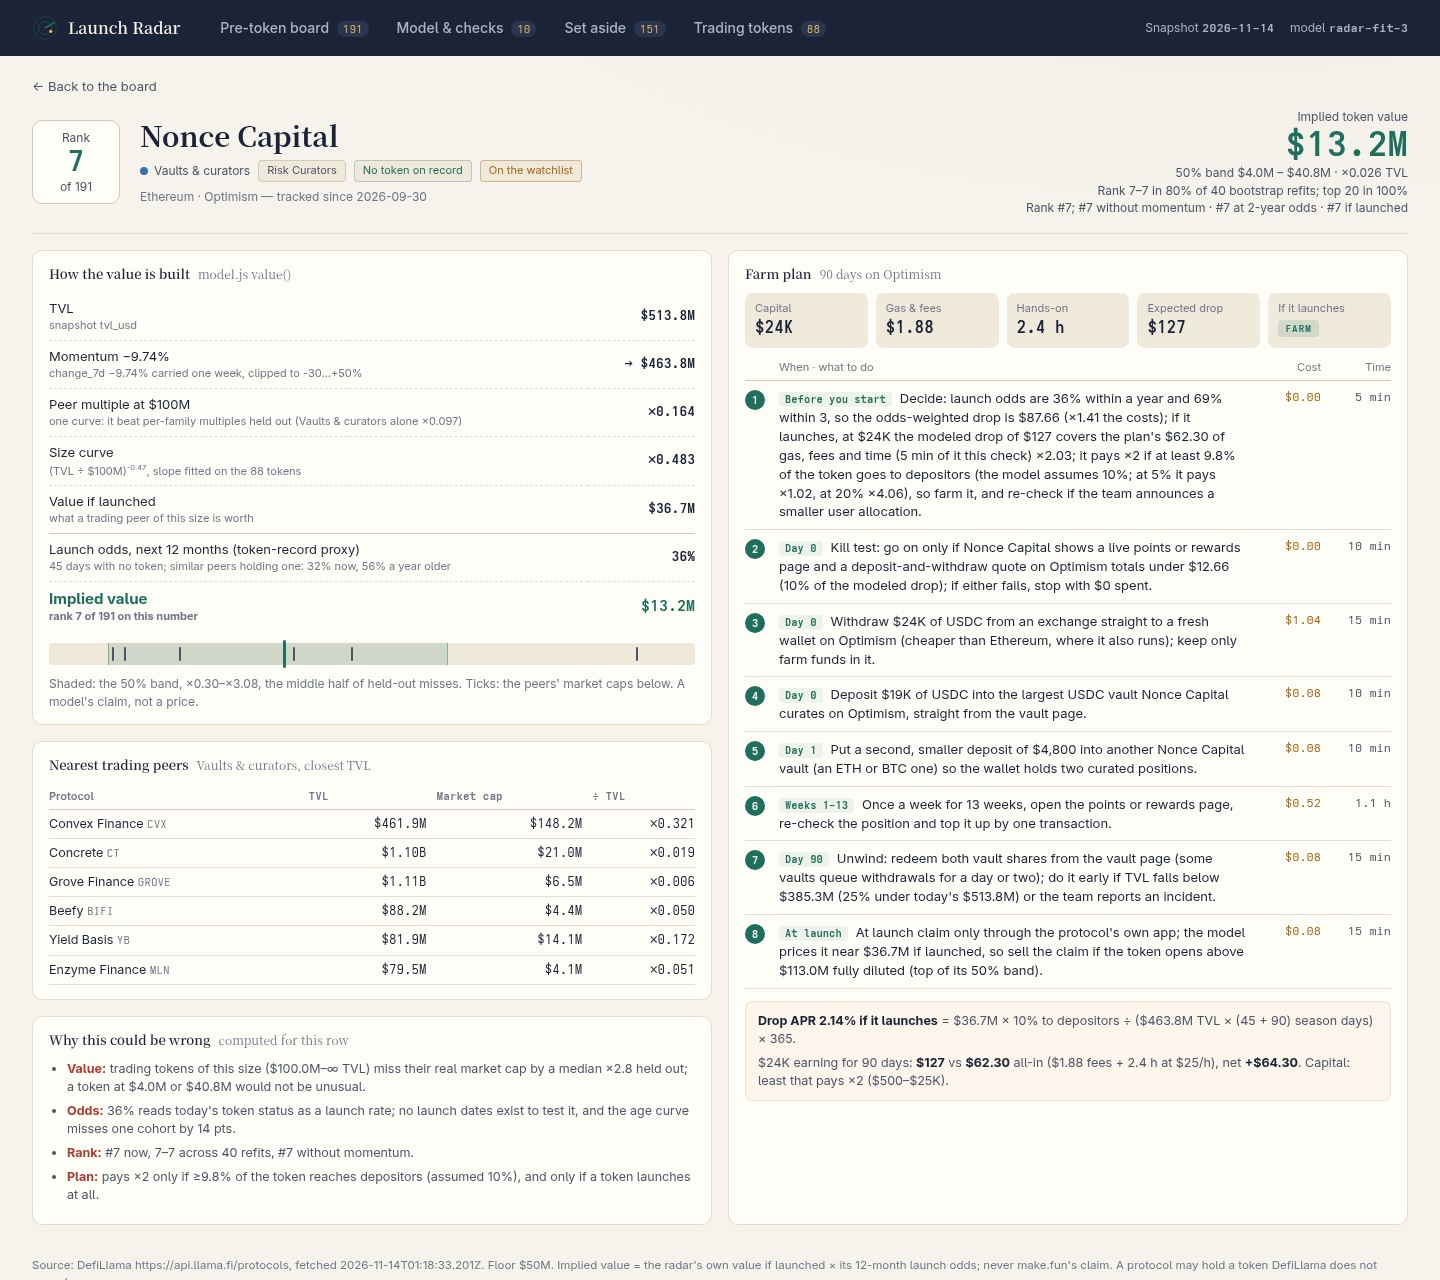
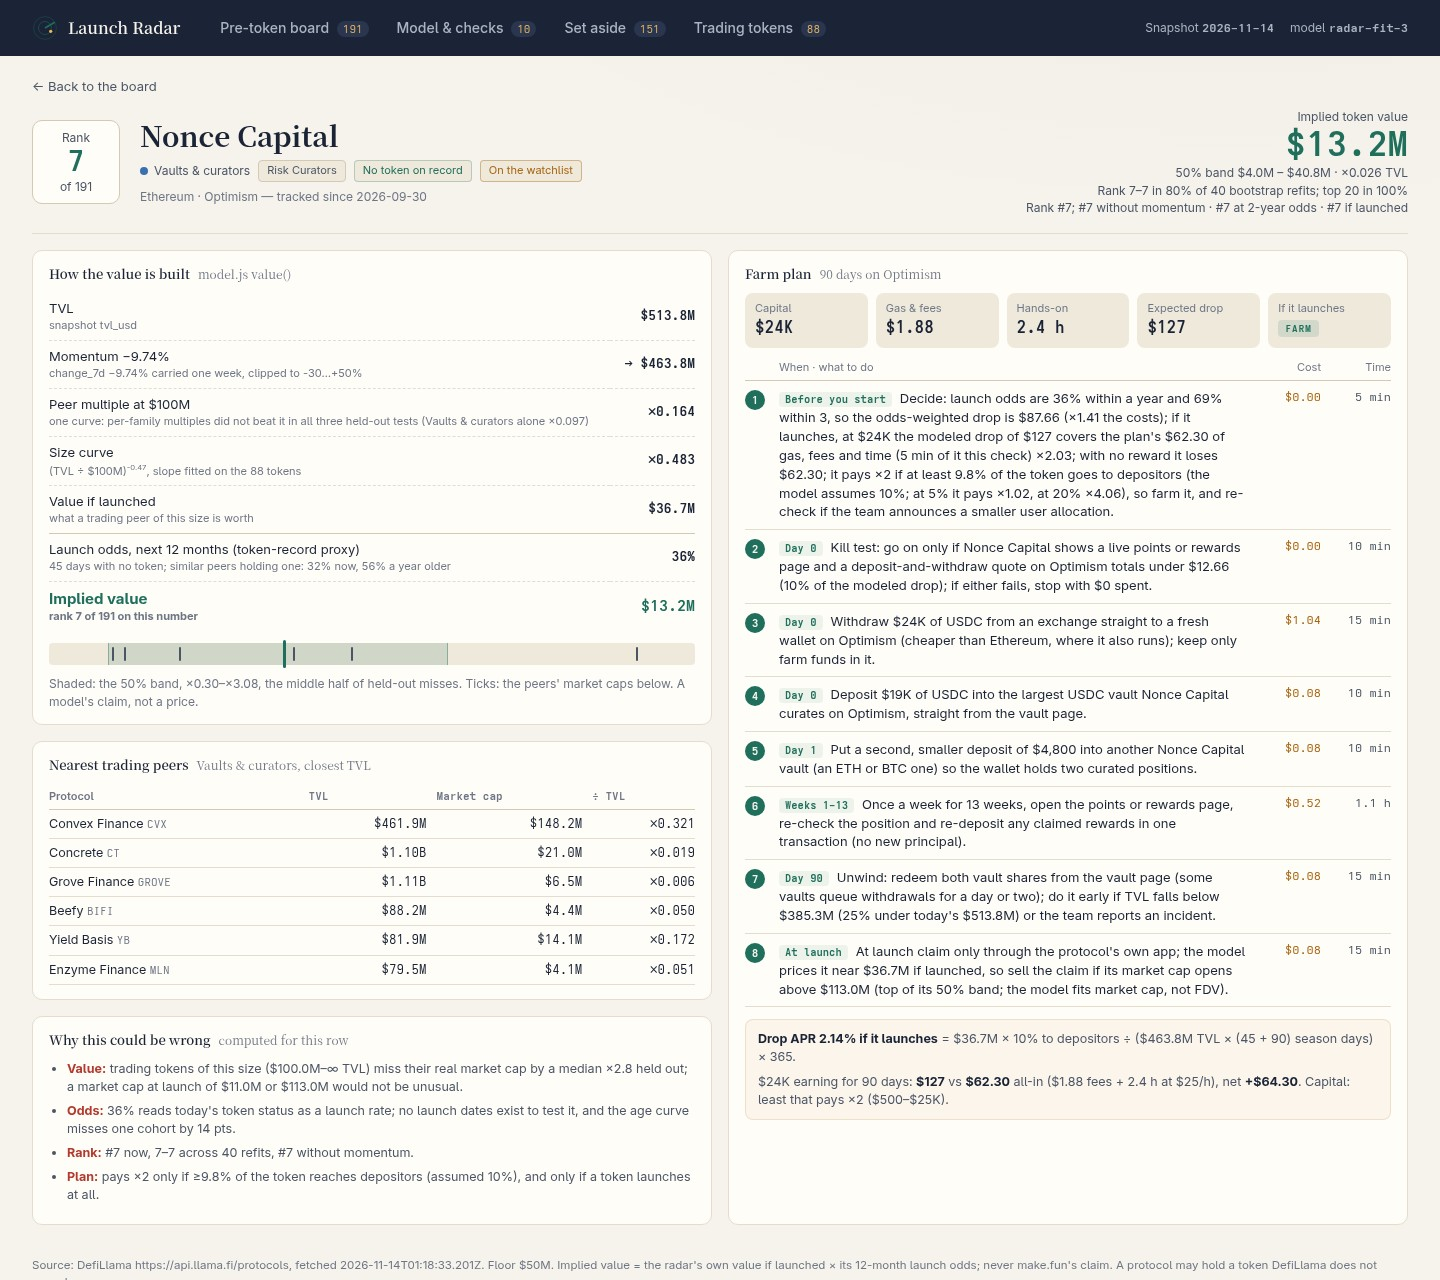
Corrections from the diagnosis round: conditional cap band in the red-team line, market cap not FDV in the sell rule, momentum removed from both legs of the 'without momentum' variant, clipping on the fitted ratio, one token-evidence rule, zero-reward loss in every plan, honest labels (Tracked, Auto

diff --git a/dashboard/app.js b/dashboard/app.js
@@ -3,7 +3,7 @@
  *   model.js launchOdds()  12-month launch odds: a hazard fitted on peers by TVL and age, AUC and cohort checks
  *   model.js value()       value if launched x launch odds, every factor kept for the detail view
  *   model.js productOf()   the watchlist rule that sets wrapped, bridged, staked and exchange products aside
- *   model.js farmPlan()    decision step, six costed and timed steps, deposit sized or set by the reader
+ *   model.js farmPlan()    decision step, seven costed and timed steps, deposit sized or set by the reader
  *   model.js build(), boardRows(), digest()  what main.ts writes to board.json; the page recomputes it
  *   app.js CHECKS, board(), detail(), aside(), trading()  cover checks and views; state in the URL hash
  * Reviewer's audit route: (1) screen = board.json: digest() covers rank, name, value and every plan step;
@@ -138,7 +138,7 @@
     [rows.every((r, i) => r.rank === i + 1 && (!i || r.v.implied <= rows[i - 1].v.implied)), `Ranks 1–${rows.length}, value never rising`],
     [rows.every((r) => r.p.gecko_id == null && r.p.symbol == null && r.p.mcap_usd == null), `${rows.length}/${rows.length} ranked rows record no token`],
     [bRows.every((b) => b.farm_steps.length >= 3 && b.farm_steps.length <= 12 && b.farm_steps.every((t) => / Cost: .+ Time: /.test(t))), `${bRows.length}/${bRows.length} plans, every step costed and timed`],
-    [B.digest === dig && B.rows === rows.length, `Screen = board.json (rank, name, value, every plan step): digest ${dig}, ${B.rows || 0} rows`],
+    [B.digest === dig && B.rows === rows.length, `Screen = board.json at the Auto deposit (rank, name, value, every plan step): digest ${dig}, ${B.rows || 0} rows`],
     [O.auc_loo > 0.5 && O.auc_wf > 0.5 && O.auc_fam > 0.5 && O.brier.loo < O.brier.loo_base && O.brier.wf < O.brier.wf_base && O.brier.fam < O.brier.fam_base, `Launch odds (token-record proxy) beat chance and the base rate in 3 held-out tests: AUC ${O.auc_loo.toFixed(2)} leave-one-out, ${O.auc_wf.toFixed(2)} walk-forward, ${O.auc_fam.toFixed(2)} family-out; Brier ${O.brier.loo.toFixed(3)}/${O.brier.wf.toFixed(3)}/${O.brier.fam.toFixed(3)} vs base ${O.brier.loo_base.toFixed(3)}/${O.brier.wf_base.toFixed(3)}/${O.brier.fam_base.toFixed(3)}`],
     [rows.slice(0, 10).every((r) => r.boot >= 0.8), `Bootstrap, 40 refits of curve and odds (fails if any top-10 row leaves the top 20 in over 20% of refits): ranks 1–${rows.findIndex((r) => r.boot < 1)} stay top 20 every time; ${rows.filter((r) => r.boot > 0 && r.boot < 1).length} rows sometimes`],
     ((w) => [O.gap < 0.2, `Odds curve vs ${O.cohorts.length} listing-age cohorts: within ${Math.round(O.gap * 100)} pts (worst from day ${w.from}: ${pc(w.actual)} hold a token, ${pc(w.fitted)} fitted)`])(O.cohorts.reduce((a, c) => Math.abs(c.actual - c.fitted) > Math.abs(a.actual - a.fitted) ? c : a)),
@@ -195,7 +195,7 @@
       <div class="count"><b>${shown.length}</b> of ${rows.length} shown${active ? ` · <a href="${link({ q: '', fam: '', chain: '', scope: 'all', verdict: '', dep: '' })}">clear filters</a>` : ''}</div>
     </section>
     <section class="filters basket"><label class="field"><span>Budget</span><select id="bud">${[10000, 25000, 50000, 100000].map((d) => `<option value="${d}"${String(d) === st.bud ? ' selected' : ''}>${usd(d)}</option>`).join('')}</select></label>
-      <span>Basket, best net per dollar of the ${shown.length} shown, within ${usd(+st.bud)} and ${HOURS} h: ${pick.map((r) => `<a href="${link({ p: r.p.slug })}">${esc(r.p.name)}</a> ${usd(r.plan.stake)}`).join(' · ') || 'none pays'} → <b>${usd(cap)}</b>, ${hrs.toFixed(1)} h, net <b class="up">+${usd(pick.reduce((s, r) => s + r.plan.net, 0))}</b></span></section>
+      <span>Basket, best net per dollar of the ${shown.length} shown, within ${usd(+st.bud)} and ${HOURS} h: ${pick.map((r) => `<a href="${link({ p: r.p.slug })}">${esc(r.p.name)}</a> ${usd(r.plan.stake)}`).join(' · ') || 'none pays'} → <b>${usd(cap)}</b>, ${hrs.toFixed(1)} h, net if they launch <b class="up">+${usd(pick.reduce((s, r) => s + r.plan.net, 0))}</b></span></section>
     <section class="filters"><div class="chips" role="group" aria-label="Family">${famLinks}</div></section></div>`;
     return `<section class="strip">
       <div><b>${watchCov}/${S.watchlist.length}</b><span>watchlist covered</span></div>
@@ -217,7 +217,7 @@
     </section>
     ${active ? '' : ctl}
     <div class="tablewrap"><table class="board">
-      <thead><tr>${th('rank', 'Rank')}${th('name', 'Protocol')}<th>Family</th>${th('tvl', 'TVL', 'num')}${th('g', '7d', 'num')}${th('age', 'No token', 'num')}${th('value', 'Implied value · 50% band', 'val')}${th('odds', 'Odds 12m', 'num')}${th('apr', 'Drop APR', 'num')}${th('plan', 'Farm plan · if it launches', 'plan')}</tr></thead>
+      <thead><tr>${th('rank', 'Rank')}${th('name', 'Protocol')}<th>Family</th>${th('tvl', 'TVL', 'num')}${th('g', '7d', 'num')}${th('age', 'Tracked', 'num')}${th('value', 'Implied value · 50% band', 'val')}${th('odds', 'Odds 12m', 'num')}${th('apr', 'Drop APR', 'num')}${th('plan', 'Farm plan · if it launches', 'plan')}</tr></thead>
       <tbody>${body || '<tr><td colspan="10" class="empty">No protocol matches these filters.</td></tr>'}</tbody></table></div>`;
   }
 
@@ -225,7 +225,7 @@
   function redTeam(r) {
     const v = r.v, b = fit.bands.find((x) => r.p.tvl_usd >= x.lo && r.p.tvl_usd < x.hi), alt = Object.entries(r.alt).sort((a, c) => Math.abs(c[1] - r.rank) - Math.abs(a[1] - r.rank))[0];
     return [
-      `<b>Value:</b> trading tokens of this size (${b.lo ? usd(b.lo) : '$0'}–${b.hi < 1e15 ? usd(b.hi) : '∞'} TVL) miss their real market cap by a median ×${b.miss.toFixed(1)} held out; a token at ${usd(v.low)} or ${usd(v.high)} would not be unusual.`,
+      `<b>Value:</b> trading tokens of this size (${b.lo ? usd(b.lo) : '$0'}–${b.hi < 1e15 ? usd(b.hi) : '∞'} TVL) miss their real market cap by a median ×${b.miss.toFixed(1)} held out; a market cap at launch of ${usd(v.fitted * fit.band_low)} or ${usd(v.cap_high)} would not be unusual.`,
       `<b>Odds:</b> ${pc(v.time_factor)} reads today's token status as a launch rate; no launch dates exist to test it, and the age curve misses one cohort by ${Math.round(fit.odds.gap * 100)} pts.`,
       `<b>Rank:</b> #${r.rank} now, ${r.rlo}–${r.rhi} across 40 refits, #${alt[1]} ${alt[0]}${v.growth_imputed ? '; its 7-day change is unreported, so 0% was used' : ''}.`,
       `<b>Plan:</b> pays ×${M.target_cover} only if ≥${(r.plan.need_share * 100).toFixed(1)}% of the token reaches depositors (assumed ${M.drop_share * 100}%), and only if a token launches at all.`
@@ -254,7 +254,7 @@
           <table class="receipt">
             ${line('TVL', 'snapshot tvl_usd', usd(p.tvl_usd))}
             ${line('Momentum ' + pct(v.growth, 2), (v.growth_imputed ? 'change_7d not reported: 0% assumed' : 'change_7d ' + pct(p.change_7d, 2) + ' carried one week, clipped to ' + M.growth_floor + '…+' + M.growth_cap + '%'), '→ ' + usd(v.tvl_next))}
-            ${line('Peer multiple at $100M', (fit.k === Infinity ? 'one curve: it beat per-family multiples held out' : 'family pull k=' + fit.k) + ' (' + esc(fam.label) + ' alone ' + mult(fam.raw) + ')', mult(v.fam_multiple))}
+            ${line('Peer multiple at $100M', (fit.k === Infinity ? 'one curve: per-family multiples did not beat it in all three held-out tests' : 'family pull k=' + fit.k) + ' (' + esc(fam.label) + ' alone ' + mult(fam.raw) + ')', mult(v.fam_multiple))}
             ${line('Size curve', '(TVL ÷ $100M)<sup>' + fit.slope.toFixed(2) + '</sup>, slope fitted on the ' + fit.n + ' tokens', mult(v.size_mult))}
             ${line('Value if launched', 'what a trading peer of this size is worth', usd(v.fitted), 'sum')}
             ${line('Launch odds, next 12 months (token-record proxy)', (v.age == null ? 'no listing date: median ' + v.age_used + ' days' : v.age + ' days') + ' with no token; similar peers holding one: ' + pc(v.f0) + ' now, ' + pc(v.f1) + ' a year older', pc(v.time_factor))}
@@ -283,7 +283,7 @@
         <ol class="steps">${pl.steps.map((s) => `<li><p><em>${esc(s.when)}</em>${esc(s.act)}.</p><span class="cost">${usd(s.usd)}</span><span class="time">${R.mins(s.min)}</span></li>`).join('')}</ol>
         <div class="math">
           <p><b>Drop APR ${(v.apr * 100).toFixed(2)}% if it launches</b> = ${usd(v.fitted)} × ${M.drop_share * 100}% to depositors ÷ (${usd(v.tvl_next)} TVL × (${Math.min(v.age_used, M.season_days)} + ${M.farm_days}) season days) × 365.</p>
-          <p>${usd(pl.eligible)} earning for ${pl.days} days: <b>${usd(pl.drop)}</b> vs <b>${usd(pl.all_in)}</b> all-in (${usd(pl.cost)} fees + ${R.mins(pl.minutes)} at $${M.hour_usd}/h), net <b class="${pl.net >= 0 ? 'up' : 'down'}">${pl.net >= 0 ? '+' : '−'}${usd(Math.abs(pl.net))}</b>. Capital: ${st.dep ? 'your deposit' : `least that pays ×${M.target_cover} ($500–$25K)`}.</p>
+          <p>${usd(pl.eligible)} earning for ${pl.days} days: <b>${usd(pl.drop)}</b> vs <b>${usd(pl.all_in)}</b> all-in (${usd(pl.cost)} fees + ${R.mins(pl.minutes)} at $${M.hour_usd}/h), net <b class="${pl.net >= 0 ? 'up' : 'down'}">${pl.net >= 0 ? '+' : '−'}${usd(Math.abs(pl.net))}</b>. Capital: ${st.dep ? 'your deposit' : pl.verdict === 'farm' ? `least that pays ×${M.target_cover} ($500–$25K)` : `capped at $25K; no deposit up to it pays ×${M.target_cover}`}.</p>
         </div>
       </section>
     </div>`;
@@ -297,7 +297,7 @@
   }
   function aside() {
     return `<section class="intro"><h1>${radar.products.length} products set aside, not ranked</h1>
-      <p>No token of their own, but each is a wrapped, bridged, staked or exchange product, a versioned pool or a likely sibling of a trading token: the watchlist rule (productOf) applied to every protocol. Their value is the underlying token's.</p></section>
+      <p>No token of their own, but each is a wrapped, bridged, staked or exchange product, a versioned pool or a likely sibling of a trading token: the watchlist rule (productOf) applied to every protocol. Their value most likely rides on the related token's, so the board gives them none of their own.</p></section>
       <div class="tablewrap">${tbl('board', ['Product', 'Why set aside', '#TVL', '#7d'], radar.products.map((x) => [nm(x.p.name, x.p.chains.slice(0, 3).join(', ')), `<span class="tag">${esc(x.kind)}</span>`, usd(x.p.tvl_usd), pct(x.p.change_7d)]))}</div>`;
   }
 

diff --git a/dashboard/model.js b/dashboard/model.js
@@ -99,7 +99,7 @@
     });
     return { bands: bands, k: k, slope: full.b, elasticity: 1 + full.b, base: Math.exp(full.all), families: full.fams, n: pts.length, points: pts,
       median_error: Math.exp(quantile(absMiss, 0.5)), band_low: Math.exp(q25), band_high: Math.exp(q75), band_hits: inBand,
-      clipped: pts.filter(function (q) { var r = q.mcap / q.tvl; return r < M.ratio_floor || r > M.ratio_cap; }).length,
+      clipped: pts.filter(function (q) { var r = q.mcap / q.tc; return r < M.ratio_floor || r > M.ratio_cap; }).length,
       tests: tests, odds: launchOdds(snap) };
   }
 
@@ -114,7 +114,7 @@
       return [1, Math.log(p.tvl_usd / M.ref_tvl), Math.log(1 + a / 365), Math.log(1 + clamp(p.change_7d || 0, M.growth_floor, M.growth_cap) / 100)]
         .concat(fams.map(function (f) { return family(p) === f[0] ? 1 : 0; }));
     };
-    var pts = peers.map(function (p) { var a = ageDays(snap.as_of, p.listed_at); return { p: p, a: a, x: X(p, a == null ? mid : a), y: p.gecko_id != null || p.symbol != null ? 1 : 0 }; });
+    var pts = peers.map(function (p) { var a = ageDays(snap.as_of, p.listed_at); return { p: p, a: a, x: X(p, a == null ? mid : a), y: hasToken(p) ? 1 : 0 }; });
     // Newton steps from w0 (zeros, or the full fit's weights for a leave-one-out refit).
     function logit(T, w0, steps) {
       var n = T[0].x.length, w = [], it, i, j, k, t, g, H;
@@ -295,9 +295,9 @@
           usd: 1 + tx, min: 15, when: 'Day 0' },
         { act: fill(act[0]), usd: 2 * tx, min: v.family === 'rwa' ? 30 : 10, when: v.family === 'rwa' ? 'Days 0-2' : 'Day 0' },
         { act: fill(act[1]), usd: WEEKLY[kind] ? weeks * (side * WEEKLY[kind][0] + WEEKLY[kind][1] * tx) : 2 * tx, min: kind in WEEKLY ? weeks * 10 : 10, when: kind in WEEKLY ? 'Weeks 1-' + weeks : 'Day 1' },
-        { act: 'Once a week for ' + weeks + ' weeks, open the points or rewards page, re-check the position and top it up by one transaction', usd: weeks * tx, min: weeks * 5, when: 'Weeks 1-' + weeks },
+        { act: 'Once a week for ' + weeks + ' weeks, open the points or rewards page, re-check the position and re-deposit any claimed rewards in one transaction (no new principal)', usd: weeks * tx, min: weeks * 5, when: 'Weeks 1-' + weeks },
         { act: 'Unwind: ' + act[2] + '; do it early if TVL falls below ' + usd(p.tvl_usd * 0.75) + ' (25% under today\'s ' + usd(p.tvl_usd) + ') or the team reports an incident', usd: 2 * tx, min: 15, when: 'Day ' + M.farm_days },
-        { act: 'At launch claim only through the protocol\'s own app; the model prices it near ' + usd(v.fitted) + ' if launched, so sell the claim if the token opens above ' + usd(v.cap_high) + ' fully diluted (top of its 50% band)', usd: 2 * tx, min: 15, when: 'At launch' }
+        { act: 'At launch claim only through the protocol\'s own app; the model prices it near ' + usd(v.fitted) + ' if launched, so sell the claim if its market cap opens above ' + usd(v.cap_high) + ' (top of its 50% band; the model fits market cap, not FDV)', usd: 2 * tx, min: 15, when: 'At launch' }
       ];
     }
     function total(st) { var c = 0, t = 5; st.forEach(function (s) { c += s.usd; t += s.min; }); return { cost: c, min: t, all: c + t / 60 * M.hour_usd }; }
@@ -314,7 +314,7 @@
     // Every plan opens with its decision: the numbers, and the drop share at which it pays target_cover.
     var needShare = M.drop_share * M.target_cover * t.all / Math.max(drop, 1e-9);
     st.unshift({ when: 'Before you start', usd: 0, min: 5, act: 'Decide: launch odds are ' + Math.round(v.time_factor * 100) + '% within a year and ' + Math.round(v.q3 * 100) + '% within 3, so the odds-weighted drop is ' + usd(drop * v.q3) + ' (×' + (drop * v.q3 / t.all).toFixed(2) + ' the costs); if it launches, at ' + usd(capital) + ' the modeled drop of ' + usd(drop) + ' covers the plan\'s ' + usd(t.all) +
-      ' of gas, fees and time (5 min of it this check) ×' + (drop / t.all).toFixed(2) + '; it pays ×' + M.target_cover + ' if at least ' + (needShare * 100).toFixed(1) +
+      ' of gas, fees and time (5 min of it this check) ×' + (drop / t.all).toFixed(2) + '; with no reward it loses ' + usd(t.all) + '; it pays ×' + M.target_cover + ' if at least ' + (needShare * 100).toFixed(1) +
       '% of the token goes to depositors (the model assumes ' + M.drop_share * 100 + '%; at 5% it pays ×' + (drop / t.all / 2).toFixed(2) + ', at 20% ×' + (drop / t.all * 2).toFixed(2) + '), so ' + (verdict === 'farm' ? 'farm it, and re-check if the team announces a smaller user allocation' : verdict === 'skip' ? 'skip it unless the team announces a larger user allocation' : 'farm it only with funds already on ' + chain) });
     return { chain: chain, gas: tx, stake: capital, eligible: eligible(stake), asset: asset, steps: st, cost: t.cost, minutes: t.min, time_usd: t.min / 60 * M.hour_usd, all_in: t.all,
       days: M.farm_days, drop: drop, net: drop - t.all, need_share: needShare, verdict: verdict };
@@ -343,7 +343,8 @@
     rows.sort(function (a, b) { return b.v.implied - a.v.implied || bySlug(a.p, b.p); });
     rows.forEach(function (r, i) { r.rank = i + 1; });
     // Rank crossing: each row's rank under three declared alternatives, and whether it stays top 20 in all.
-    var ALT = { 'without momentum': function (r) { return r.v.fitted * Math.pow(r.p.tvl_usd / r.v.tvl_next, 1 + fit.slope) * r.v.time_factor; },
+    var F0 = function (r, a) { return fit.odds.F(Object.assign({}, r.p, { change_7d: 0 }), a); };
+    var ALT = { 'without momentum': function (r) { var a = r.v.age_used, f0 = F0(r, a); return r.v.fitted * Math.pow(r.p.tvl_usd / r.v.tvl_next, 1 + fit.slope) * (F0(r, a + M.odds_days) - f0) / (1 - f0); },
       'at 2-year odds': function (r) { return r.v.fitted * (fit.odds.F(r.p, r.v.age_used + 730) - r.v.f0) / (1 - r.v.f0); },
       'if launched': function (r) { return r.v.fitted; } };
     Object.keys(ALT).forEach(function (k) { rows.slice().sort(function (a, b) { return ALT[k](b) - ALT[k](a) || bySlug(a.p, b.p); }).forEach(function (r, i) { (r.alt = r.alt || {})[k] = i + 1; }); });
